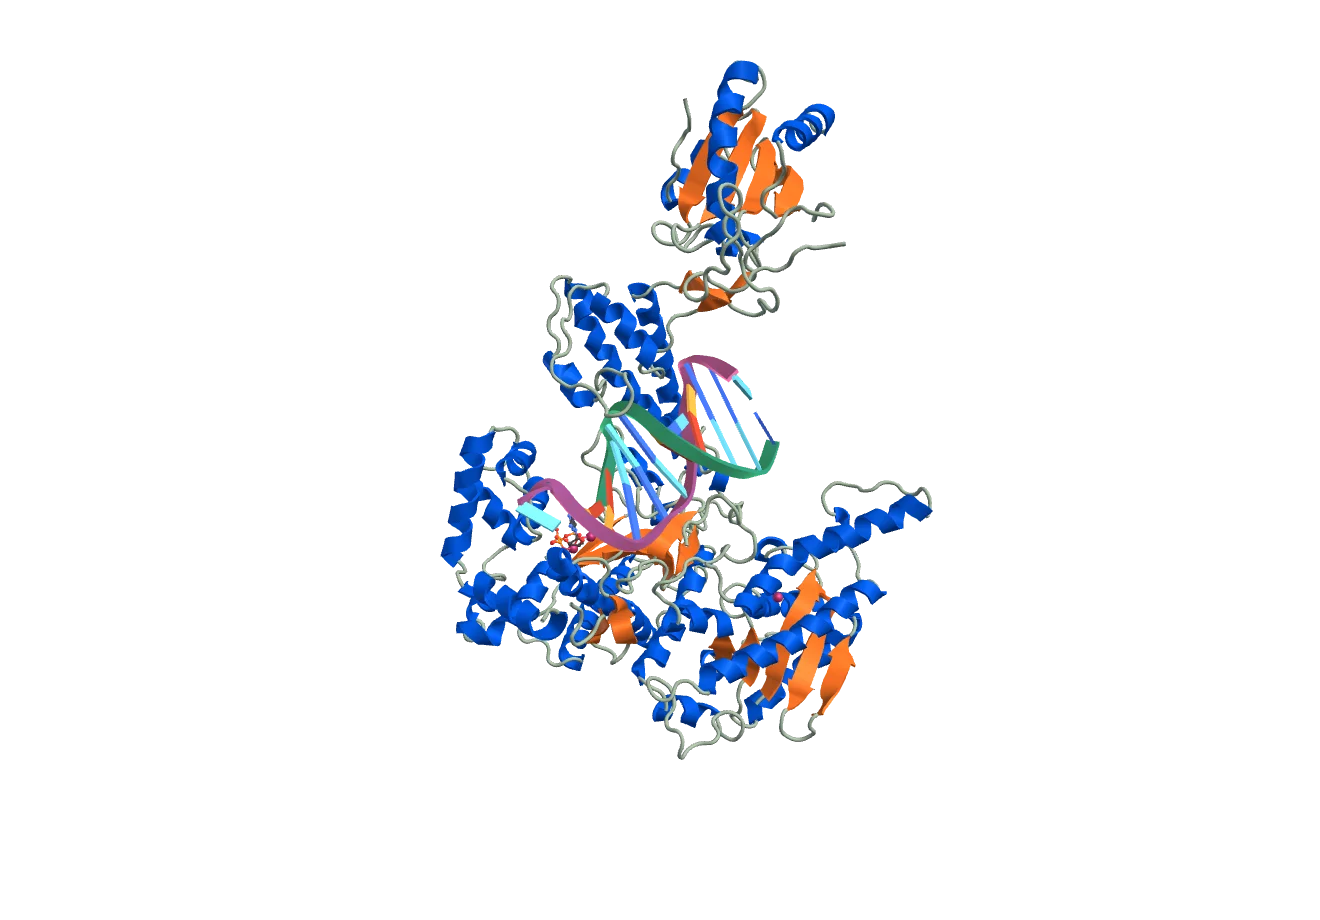
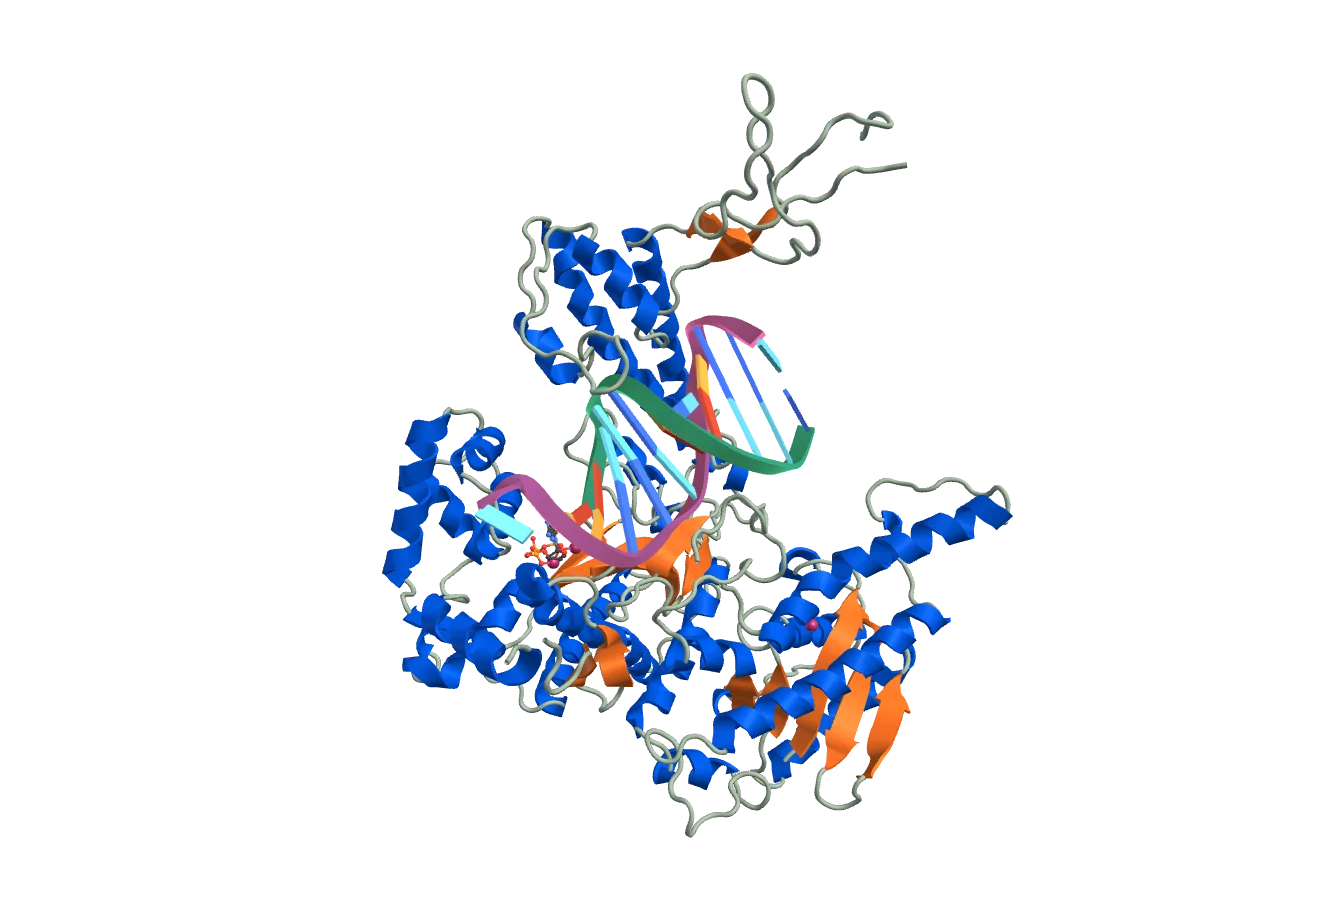
Partner chains: the gallery card and its still hide thioredoxin too
Which chains a picture of a structure is ABOUT is one decision with three
consumers — the card, the still baked from it, and the bench — so it goes
in the registry as `chains: { B: { is, partner:true } }`, with partnersOf
and drawnOf beside viewOf. The bench matched the word "thioredoxin"
against a label in the bake, which was fine for one partner and wrong for
the next one to arrive; the bake no longer carries the labels at all.

A still holding a chain the card hides breaks the only contract
stills.html has, which is that the live box replaces the picture with the
same picture. Both now ask the index.

Re-baked: without the clamp the box reframes on what is left, and the
hand comes up filling the card instead of sharing it with a lobe that is
not the polymerase.

Changed region(s): [[0.2795, 0.0609, 0.7765, 0.913]]

diff --git a/demos/proteins/polymerase/polymerase-test.html b/demos/proteins/polymerase/polymerase-test.html
@@ -210,11 +210,10 @@ const box = Proteinbox.create({
    folded into. A chain the map does not name keeps the palette. */
 const PARTNER = parseInt(getComputedStyle(document.documentElement)
   .getPropertyValue('--partner').trim().slice(1), 16);
-const paintFor = t => t.chainLabels
-  ? { byChain: Object.fromEntries(Object.keys(t.chainLabels)
-      .filter(id => /thioredoxin/i.test(t.chainLabels[id]))
-      .map(id => [id, PARTNER])) }
-  : null;
+const paintFor = () => {
+  const ids = partnersOf();
+  return ids.length ? { byChain: Object.fromEntries(ids.map(id => [id, PARTNER])) } : null;
+};
 
 const traces = new Map();
 let trace = null, current = VIEWS[0].id;
@@ -222,15 +221,16 @@ let trace = null, current = VIEWS[0].id;
 /* WHAT TO HAND THE BOX, given the checkboxes. `chains` is the box's own
    filter, so hiding a polymer is a re-feed rather than a second renderer here;
    the pocket is fed separately because it is not a chain. */
-/* WHICH CHAINS ARE PARTNERS RATHER THAN THE SUBJECT — the candidate's own
-   answer, since only it knows that T7's chain B is a borrowed protein and not
-   a second lobe of the polymerase. */
-const partnersOf = t => Object.keys(t.chainLabels || {})
-  .filter(id => /thioredoxin/i.test(t.chainLabels[id]));
+/* WHICH CHAINS ARE PARTNERS RATHER THAN THE SUBJECT — the registry's answer,
+   the same one the gallery card and its still ask for. This page used to match
+   the word "thioredoxin" against a label in the bake, which would have been
+   quietly wrong for the next partner to arrive. */
+const partnersOf = () => NucleicAcids.partnersOf(ME, NucleicAcids.variantOf(ME, current));
+const chainsOf = () => (NucleicAcids.variantOf(ME, current) || {}).chains || {};
 
 function draw() {
   if (!trace) return;
-  const partners = partnersOf(trace);
+  const partners = partnersOf();
   const showPartner = document.getElementById('partner').checked;
   const want = trace.order.filter(id => {
     if (partners.includes(id)) return showPartner;
@@ -243,7 +243,7 @@ function draw() {
      framing on no points, so an all-off state keeps the last structure. */
   if (want.length)
     box.setData(trace, { chains: want.join(','), sub, view: VIEW,
-                         colors: paintFor(trace) });
+                         colors: paintFor() });
   if (document.getElementById('site').checked && trace.pocket)
     box.setPocket(trace.pocket);
 
@@ -271,8 +271,7 @@ function facts() {
        picture unlabelled. What each chain IS comes from the candidate; the
        counts come from the bake. */
     ['Protein', aa.map(id => id + ' ' + trace.chains[id].nums.length + ' of '
-      + m.declared[id] + ((trace.chainLabels || {})[id]
-        ? ' — ' + trace.chainLabels[id] : ''))
+      + m.declared[id] + (chainsOf()[id] ? ' — ' + chainsOf()[id].is : ''))
       .join('<br>') + '<br>ss ' + trace.ssFrom],
     ['DNA', na.map(id => id + ' ' + trace.chains[id].seq
       + (trace.chains[id].mods.length
@@ -356,10 +355,8 @@ function facts() {
     /* Only while it is on screen. A legend entry for a hidden chain sends a
        reader hunting the picture for a colour that is not in it. */
     + (document.getElementById('partner').checked
-      ? Object.entries(trace.chainLabels || {})
-        .filter(([, w]) => /thioredoxin/i.test(w))
-        .map(([id, w]) => '<span class="sw"><i style="background:var(--partner)">'
-          + '</i>' + id + ' — ' + w + '</span>').join('')
+      ? partnersOf().map(id => '<span class="sw"><i style="background:var('
+          + '--partner)"></i>' + id + ' — ' + chainsOf()[id].is + '</span>').join('')
       : '');
 }
 
@@ -369,11 +366,11 @@ function show(id) {
   /* The control is named after the chain it holds, off the candidate's own
      label, so an entry with a different partner does not need a second row
      written for it. */
-  const partners = partnersOf(trace);
+  const partners = partnersOf();
   document.getElementById('partner-row').hidden = !partners.length;
   if (partners.length)
     document.getElementById('partner-what').textContent =
-      partners.map(c => trace.chainLabels[c]).join(', ');
+      partners.map(c => chainsOf()[c].is).join(', ');
   for (const b of document.querySelectorAll('#states button'))
     b.setAttribute('aria-pressed', String(b.dataset.id === id));
   facts();

diff --git a/demos/proteins/nucleic-acids.js b/demos/proteins/nucleic-acids.js
@@ -199,10 +199,21 @@
           default: true,
           species: 'bacteriophage T7',
           label: 'T7 polymerase + thioredoxin', chip: '4 chains',
-          /* Chain B is the HOST's protein: T7 encodes no sliding clamp and
-             bolts an E. coli thioredoxin to its thumb to hold on. The bench
-             draws it only on request — it is the highest-contrast thing in
-             the frame and the one part that is not the polymerase. */
+          /* WHAT EACH PROTEIN CHAIN IS, AND WHICH ONE IS NOT THE SUBJECT.
+             T7 encodes no sliding clamp: it bolts an E. coli thioredoxin to
+             its thumb to hold onto the DNA. So chain B is a different protein
+             from a different organism, and `partner` says a picture of this
+             structure is about the polymerase without it.
+
+             IT IS HERE RATHER THAN IN THE BAKE because it is a decision about
+             how the structure should be SHOWN, and three consumers have to
+             make the same one — the gallery card, the still baked from it and
+             the bench. A still that drew a chain the card hides would break
+             the one contract stills.html has, which is that the live box
+             replaces the picture with the same picture. */
+          chains: { A: { is: 'T7 polymerase (gp5)' },
+                    B: { is: 'thioredoxin, borrowed from E. coli',
+                         partner: true } },
           source: { kind: 'rcsb', id: '1T7P' },
           read: {
             method: 'x-ray diffraction',
@@ -295,6 +306,28 @@
     return (at && b[at.frame]) || null;
   }
 
+  /* THE CHAINS A PICTURE OF THIS VARIANT IS ABOUT, and the ones it is not.
+     A partner is in the file and not in the subject — a clamp, a Fab, a lid.
+     `partnersOf` is the declaration; `drawnOf` turns it into the chain list
+     `kit/proteinbox.js` takes, against a trace, and returns null where there
+     is nothing to leave out so the box keeps its own default.
+
+     A PAGE THAT WANTS THE PARTNER ASKS FOR IT. The bench has a checkbox; the
+     gallery card and its still do not, and they are the reason this lives in
+     the index rather than in each page. */
+  const partnersOf = (s, v) => {
+    const e = typeof s === 'string' ? byKey(s) : s;
+    const at = v || defaultOf(e);
+    const c = at && at.chains;
+    return c ? Object.keys(c).filter(id => c[id].partner) : [];
+  };
+
+  const drawnOf = (s, v, t) => {
+    const skip = partnersOf(s, v);
+    if (!skip.length || !t || !t.order) return null;
+    return t.order.filter(id => !skip.includes(id)).join(',');
+  };
+
   /* The bake's path, from the entry and the variant — so a bench names a
      structure and not a file, and a renamed bake is one edit here. */
   const bakedPath = (s, id) => {
@@ -311,7 +344,8 @@
   });
 
   global.NucleicAcids = { STRUCTURES, KINDS, byKey, variantOf, defaultOf,
-                          bakedPath, urls, withProtein, viewOf };
+                          bakedPath, urls, withProtein, viewOf,
+                          partnersOf, drawnOf };
   if (typeof module === 'object' && module.exports)
     module.exports = global.NucleicAcids;
 })(typeof window !== 'undefined' ? window : globalThis);

diff --git a/demos/proteins/polymerase/tools/prep.js b/demos/proteins/polymerase/tools/prep.js
@@ -83,11 +83,10 @@ const SRC = path.join(HERE, 'src');
 const HOW = {
   '4KTQ': { ref: true, primer: 'B', template: 'C', pocket: [] },
   '3KTQ': { primer: 'B', template: 'C', fitBy: 'num', pocket: ['DCT', 'MG'] },
-  '1T7P': { primer: 'P', template: 'T', fitBy: 'role', pocket: ['DG3', 'MG'],
-            /* Chain B is the host's protein, not the phage's — the one thing
-               a reader will ask about the picture. */
-            chains: { A: 'T7 polymerase (gp5)',
-                      B: 'thioredoxin, borrowed from E. coli' } },
+  /* What each chain IS, and which one is a partner, is the registry's — three
+     consumers have to make one decision about whether a picture of this
+     structure includes the borrowed clamp. */
+  '1T7P': { primer: 'P', template: 'T', fitBy: 'role', pocket: ['DG3', 'MG'] },
 };
 
 /* THE REFERENCE IS BAKED FIRST, WHICHEVER ORDER THE REGISTRY LISTS THEM IN.
@@ -390,7 +389,6 @@ function bake(cand, ref) {
     },
     primer: cand.primer,
     template: cand.template,
-    chainLabels: cand.chains || null,
     templating,
     fit,
     motion,

diff --git a/demos/proteins/index.html b/demos/proteins/index.html
@@ -358,6 +358,12 @@ function open(key, mount) {
          the bench cannot colour the same molecule two ways. */
       /* Colour is the protein registry's to state; the ladder takes the
          palette's base family, so a nucleic entry leaves it to the box. */
+      /* WHICH CHAINS THE CARD IS ABOUT. A partner chain is in the file and
+         not in the subject — T7's borrowed thioredoxin is the case — and the
+         index says which, so this card, the still baked from it and the bench
+         cannot disagree. Null keeps the box's own default, which is every
+         chain, and that is what every entry without a partner gets. */
+      chains: isNA(p) ? NucleicAcids.drawnOf(p, null, t) : null,
       colors: isNA(p) ? null : ProteinLib.colorsOf(p, ProteinLib.defaultOf(p)),
       /* THE ROTATION IS ASKED OF WHICHEVER REGISTRY HOLDS THE ENTRY. Passing
          null for a nucleic one was right while every nucleic bake carried its

diff --git a/demos/proteins/tools/stills.html b/demos/proteins/tools/stills.html
@@ -84,6 +84,10 @@ async function bake(p) {
   const box = Proteinbox.create({
     mount, orbit: false, pad: 1.15, sub: 8,
     stage: { ortho: false },
+    /* The same chain list the card draws — see index.html. A still holding a
+       chain the card hides is the contract above broken in the one direction
+       nobody looks at. */
+    chains: isNA(p) ? NucleicAcids.drawnOf(p, null, t) : null,
     colors: isNA(p) ? null : ProteinLib.colorsOf(p, ProteinLib.defaultOf(p)),
     /* THE SAME `viewOf` index.html ASKS, which is the whole contract above:
        everything deciding what the frame looks like has to match the card or
